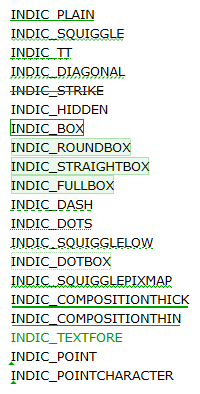
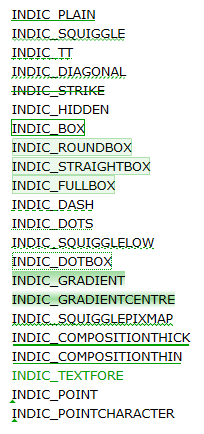
Add INDIC_GRADIENT and INDIC_GRADIENTCENTRE indicator types.

diff --git a/doc/ScintillaDoc.html b/doc/ScintillaDoc.html
@@ -4470,6 +4470,23 @@ struct Sci_TextToFind {
         </tr>
 
         <tr>
+          <td align="left"><code>INDIC_GRADIENT</code></td>
+
+          <td align="center">20</td>
+
+          <td>A vertical gradient between a colour and alpha at top to fully transparent at bottom.</td>
+        </tr>
+
+        <tr>
+          <td align="left"><code>INDIC_GRADIENTCENTRE</code></td>
+
+          <td align="center">21</td>
+
+          <td>A vertical gradient with the specified colour and alpha in the middle
+          fading to fully transparent at top and bottom.</td>
+        </tr>
+
+        <tr>
           <td align="left"><code>INDIC_SQUIGGLEPIXMAP</code></td>
 
           <td align="center">13</td>

diff --git a/doc/ScintillaHistory.html b/doc/ScintillaHistory.html
@@ -538,11 +538,18 @@
       </li>
     </ul>
     <h3>
-       <a href="https://www.scintilla.org/scite406.zip">Release 4.0.6</a>
+       <a href="https://www.scintilla.org/scite410.zip">Release 4.1.0</a>
     </h3>
     <ul>
 	<li>
 	Released 10 May 2018.
+	</li>
+	<li>
+	INDIC_GRADIENT and INDIC_GRADIENTCENTRE indicator types added.
+	INDIC_GRADIENT starts with a specified colour and alpha at top of line and fades
+	to fully transparent at bottom.
+	INDIC_GRADIENTCENTRE starts with a specified colour and alpha at centre of line and fades
+	to fully transparent at top and bottom.
 	</li>
 	<li>
 	Indicators are drawn for line end characters when displayed.

diff --git a/include/Scintilla.h b/include/Scintilla.h
@@ -288,6 +288,8 @@ typedef sptr_t (*SciFnDirect)(sptr_t ptr, unsigned int iMessage, uptr_t wParam, 
 #define INDIC_TEXTFORE 17
 #define INDIC_POINT 18
 #define INDIC_POINTCHARACTER 19
+#define INDIC_GRADIENT 20
+#define INDIC_GRADIENTCENTRE 21
 #define INDIC_IME 32
 #define INDIC_IME_MAX 35
 #define INDIC_MAX 35
